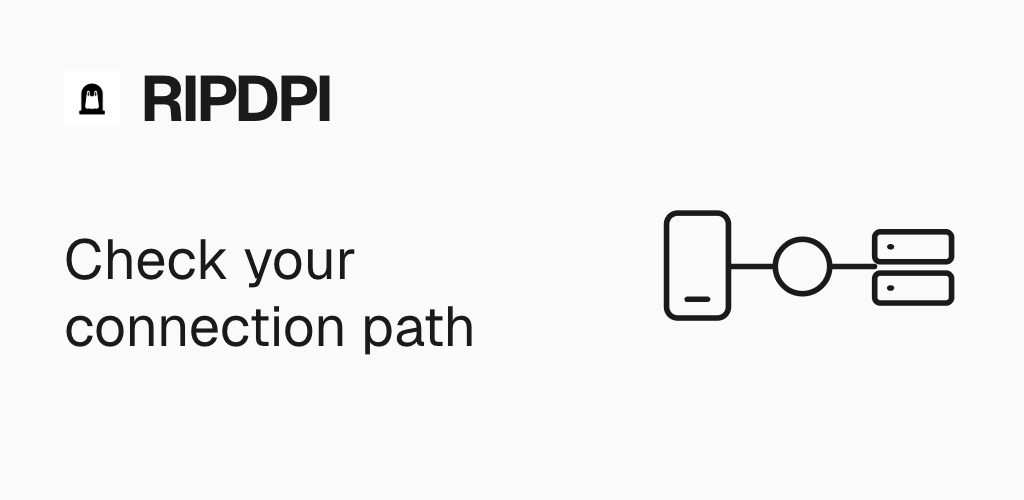
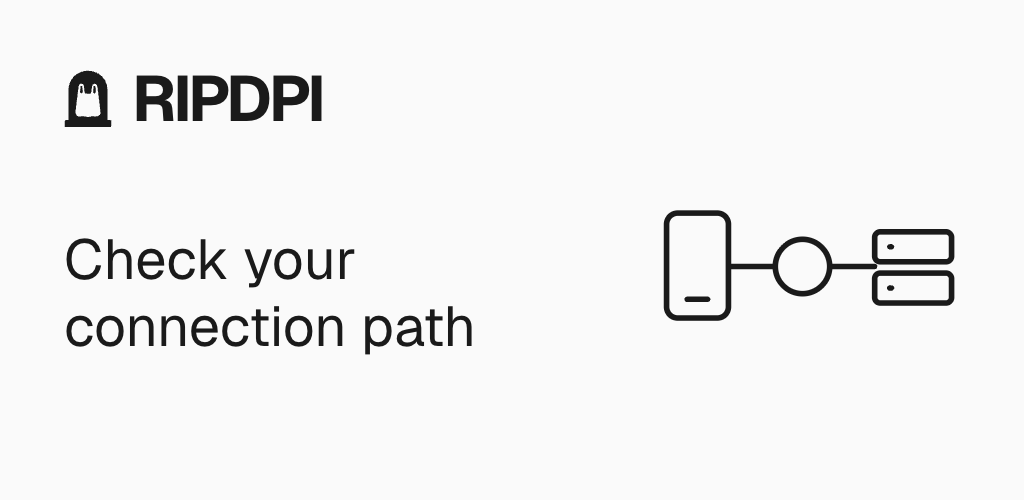
fix(marketing): render the app mark without launcher padding

Changed region(s): [[0.0625, 0.12, 0.3438, 0.27]]

diff --git a/play-store-screenshots/src/app/page.tsx b/play-store-screenshots/src/app/page.tsx
@@ -112,6 +112,17 @@ function Slide6({ copy }: { copy: SlideCopy }) {
   return <Slide copy={copy} dark><AppCapture copy={copy} src="backup" index={5} top={56} />
     <Caption copy={copy} index={5} bottom align="center" dark /></Slide>;
 }
+// Paths from app/src/main/res/drawable/ic_launcher_foreground_ripdpi_clean.xml.
+// Preserve the mark geometry; exclude only its adaptive-icon padding.
+function AppMark() {
+  return <svg data-app-mark aria-hidden="true" viewBox="230 168 565 680" width="48" height="58"
+    fill={BRAND_LIGHT.text} style={{ display: "block", flexShrink: 0 }}>
+    <path d="M500.84 175.215C502.69 174.966 509.195 174.933 511.27 174.955C573.165 175.624 635.07 199.368 678.865 243.372C706.055 270.631 725.335 304.764 734.635 342.124C743.665 378.292 742.055 404.558 742.055 441.17L742.045 519.66V755.425C745.585 755.19 749.48 755.115 753.005 755.21C770.42 755.685 787.99 751.12 787.385 775.48C786.955 792.735 788.46 811.355 786.74 828.595C786.315 832.815 780.285 838.165 776.05 838.01C767.075 838.545 758.105 838.39 749.115 838.385L698.04 838.37L527.285 838.385L350.789 838.405L286.671 838.4C275.623 838.395 264.483 838.275 253.452 838.24C234.251 838.19 238.044 821.385 238.062 807.5L237.929 773.85C237.932 749.375 264.44 755.255 282.451 755.315L282.444 511.87L282.382 439.359C282.268 408.433 281.076 382.178 287.487 351.597C294.509 316.401 310.39 283.577 333.63 256.228C366.783 217.646 411.71 191.043 461.48 180.525C475.636 177.483 486.509 176.339 500.84 175.215ZM658.98 672.245C660.08 652.775 656.435 631.385 654.01 611.83L645.025 538.115C640.72 501.385 636.195 464.682 631.455 428.004C628.76 406.676 626.535 385.217 622.415 364.067C620.41 353.772 617.815 345.508 610.945 337.249C601.365 325.73 581.675 324.663 570.68 334.668C567.685 337.547 564.05 342.923 562.96 346.939C557.545 366.893 555.73 389.485 553.645 410.096C551.255 433.749 549.93 448.448 520.495 447.562C507.28 447.165 489.48 450.123 478.667 440.152C472.224 433.788 471.543 421.007 470.578 412.411C469.334 400.749 467.99 389.097 466.546 377.458C463.478 353.121 461.842 326.395 430.087 328.125C421.117 329.94 415.428 332.511 410.111 340.494C405.05 348.092 403.262 356.903 401.497 365.719C398.287 384.804 396.179 404.399 393.76 423.622L380.951 527.73L370.345 615.135C368.802 627.98 365.893 647.8 365.182 660.445C364.881 665.62 365.309 670.81 366.453 675.865C372.766 705.015 396.23 718.395 424.485 713.225C434.193 711.455 444.468 709.49 454.35 710.095C474.881 711.775 494.353 720.74 515.25 719.805C534.905 718.92 553.535 709.87 573.355 709.97C582.83 710.015 592.39 712.44 601.78 713.605C622.07 716.05 639.665 711.385 651.23 693.47C655.81 686.37 657.225 680.3 658.98 672.245Z" />
+    <path d="M585.335 353.615C587.655 353.409 590.01 353.224 592.25 354C594.635 354.827 596.27 356.643 597.305 358.894C601.885 368.843 606.685 423.97 602.56 433.935C600.545 438.805 597.185 441.109 592.47 442.925C565.77 444.355 575.655 414.851 574.86 398.062C575.425 393.635 575.01 388.14 575.74 383.772C577.45 373.469 574.36 358.799 585.335 353.615Z" />
+    <path d="M431.777 353.625C434.044 353.337 436.346 353.134 438.539 353.932C441.195 354.899 443.603 357.461 444.63 360.074C447.576 367.565 449.946 416.296 449.457 425.641C449.301 428.638 448.94 432.256 447.606 434.953C445.437 439.334 441.801 441.434 437.387 443.032C417.784 443.653 418.727 426.859 419.689 412.124C420.768 395.593 421.434 378.687 424.944 362.478C425.809 358.482 428.278 355.595 431.777 353.625Z" />
+  </svg>;
+}
+
 function FeatureGraphicSlide({ copy }: { copy: SlideCopy }) {
   const rtl = copy.dir === "rtl";
   return <div data-marketing-slide data-locale={copy.locale} dir={copy.dir}
@@ -119,7 +130,7 @@ function FeatureGraphicSlide({ copy }: { copy: SlideCopy }) {
       color: BRAND_LIGHT.text, position: "relative", overflow: "hidden", fontFamily: marketingFont(copy) }}>
     <div style={{ position: "absolute", top: 64, insetInlineStart: 64, display: "flex",
       alignItems: "center", gap: 20 }}>
-      <img src="/app-icon.png" alt="" style={{ width: 56, height: 56 }} />
+      <AppMark />
       <div data-overlay-text dir="ltr" style={{ fontFamily: "var(--font-geist-sans), sans-serif",
         fontWeight: 700, fontSize: 64, lineHeight: 1.1, letterSpacing: "-0.055em" }}>RIPDPI</div>
     </div>

diff --git a/docs/tasks/board.md b/docs/tasks/board.md
@@ -2,7 +2,7 @@
 
 _Generated by `taskctl`. Do not edit by hand._
 
-## Doing (31)
+## Doing (32)
 
 | ID | Priority | Area | Kind | Issue | Owner | Progress | OpenSpec | Blocked by | Blocks | Updated |
 |---|---|---|---|---|---|---|---|---|---|---|
@@ -37,6 +37,7 @@ _Generated by `taskctl`. Do not edit by hand._
 | RTE-1786264762917959 | medium | routing | feature | [Adopt Android 17 system split-tunnel UI via ACTION_VPN_APP_EXCLUSION_SETTINGS](issues/adopt-android-17-system-split-tunnel-ui-via-action-vpn-app-exclusion.md) | unassigned | 3/4 | rte-1786264762917959-adopt-android-17-system-split-tunnel-ui-via-action-vpn-app-exclusion | — | — | 2026-06-11 |
 | RTE-1786264762917255 | medium | routing | feature | [Adopt process-based per-package routing via Xray TUN routeOnly](issues/adopt-process-based-per-package-routing-via-xray-tun-routeonly.md) | unassigned | 3/4 | rte-1786264762917255-adopt-process-based-per-package-routing-via-xray-tun-routeonly | — | — | 2026-06-11 |
 | TRN-1786264762917677 | medium | transport | feature | [Wire AmneziaWG RTK South cohort (Jc=4) into Android client](issues/wire-amneziawg-rtk-south-jc4-cohort-into-android-client.md) | unassigned | 3/5 | trn-1786264762917677-wire-amneziawg-rtk-south-jc4-cohort-into-android-client | — | — | 2026-06-21 |
+| UIX-1791648381801240 | medium | ui | bug | [Render the current app mark correctly in Play banners](issues/play-banner-logo.md) | Play banner logo correction | 2/2 | — | — | — | 2026-10-10 |
 
 ## Review (63)
 

diff --git a/docs/tasks/issues/play-banner-logo.md b/docs/tasks/issues/play-banner-logo.md
@@ -1,0 +1,32 @@
+---
+id: UIX-1791648381801240
+title: Render the current app mark correctly in Play banners
+kind: bug
+status: doing
+area: ui
+priority: medium
+owner: Play banner logo correction
+parent: null
+blocked_by: []
+spec_mode: not-required
+openspec_change: null
+created: 2026-10-10
+updated: 2026-10-10
+spec_reason: tooling-only
+---
+
+## Goal
+
+Show the current app mark clearly beside RIPDPI in every Play feature graphic. Remove the white launcher square and excessive internal padding without changing the icon geometry or wordmark.
+
+## Acceptance criteria
+
+- Use the unchanged paths from the default clean Android launcher vector.
+- Check all seven banners at full size and 360 px, including Persian RTL.
+- Production capture and strict RGB PNG validation pass; phone posters and raw captures stay unchanged.
+- Actual EN and FA banner JPEG exports preserve the vector mark.
+- Independent source and visual review passes; commit and push to main are verified.
+
+## Ownership
+
+The integration owner writes the banner component and generated marketing outputs in the dedicated Play remediation worktree. The independent reviewer reads only. No application, native engine, locale catalog, raw capture or dependency change is needed.

diff --git a/docs/tasks/work/UIX-1791648381801240.md b/docs/tasks/work/UIX-1791648381801240.md
@@ -1,0 +1,14 @@
+# UIX-1791648381801240: Render the current app mark correctly in Play banners
+
+## Objective
+
+Render the current app mark correctly in Play banners
+
+## Ownership
+
+The integration owner writes `play-store-screenshots/src/app/page.tsx` and regenerates the eight feature graphic PNGs. The independent reviewer reads only. The portfolio record defines the shared-file ownership.
+
+## Execution
+
+- [x] UIX-1791648381813989 Define implementation and verification #bug @item:UIX-1791648381801240
+- [x] UIX-1791648389339415 Render the canonical clean icon vector and verify all banner and JPEG exports #bug @item:UIX-1791648381801240
